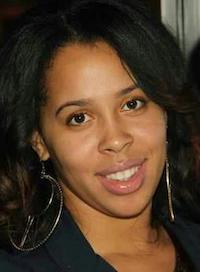
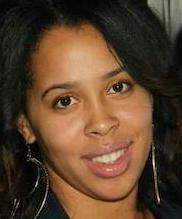
Updates

diff --git a/css/main.css b/css/main.css
@@ -56,7 +56,7 @@
     .menu-branding .portrait {
       width: 250px;
       height: 250px;
-      background: url(../images/profile_pic_4.jpg);
+      background: url(../images/profile_pic_6copy.jpg);
       border-radius: 50%;
       border: solid 3px #eece1a; }
   .menu .nav-item {
@@ -113,7 +113,7 @@ body {
       width: 100%;
       height: 100%;
       z-index: -1;
-      background: rgba(68, 68, 68, 0.9); }
+      background: rgba(68, 68, 68, 0.95); }
 
 h1,
 h2,
@@ -268,7 +268,7 @@ main {
     height: 25vh;
     transform: translate3d(100%, 0, 0); }
     .menu-branding .portrait {
-      background: url(../images/profile_pic_6copy.jpg);
+      background: url(../images/mobile-pic.jpg);
       width: 150px;
       height: 150px; }
   .about-info {

diff --git a/about.html b/about.html
@@ -52,7 +52,7 @@
       Let me tell you a few things.....
     </h2>
     <div class="about-info">
-      <img src="images/profile_pic_4.jpg" alt="Chastity Duhaney" class="bio-image">
+      <img src="./images/profile_pic_4.jpg" alt="Chastity Duhaney" class="bio-image">
       <div class="bio">
         <h3 class="text-secondary">BIO</h3>
         <p>
@@ -64,7 +64,7 @@
           and boy I'm glad I did. I find so much
           joy in bulding web applications. Now I build
           the web and nothing can stop me I'm
-          all in.😀😀😀😀
+          all in.😀😀
 
         </p>
       </div>
